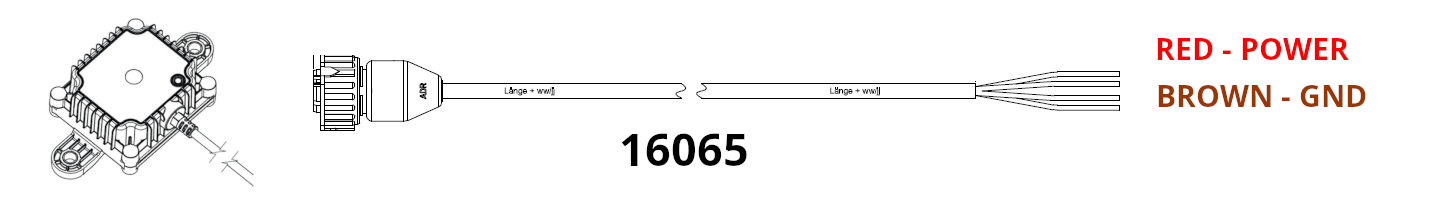
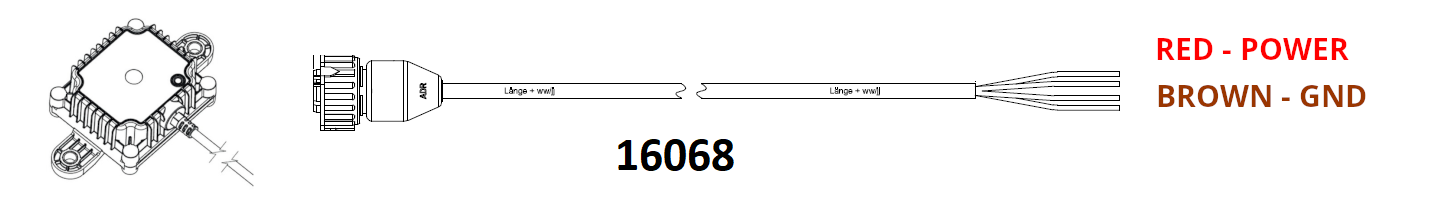
Updated strap weight and truck cable PN

Changed region(s): [[0.429, 0.5938, 0.5209, 0.7812]]

diff --git a/docs/receiver/receiver_enclosure.md b/docs/receiver/receiver_enclosure.md
@@ -67,7 +67,7 @@ The general wiring of the receiver follows the picture:
 ### Standalone Receiver
 
 For Truck installations where the transceiver will not be connected to a Telematics unit, you only need to provide power (from ignition, KL 15) to the receiver. Since the transceiver will be installed externally on the vehicle, a cable must be routed together with the OE-cables of the vehicle, from the receiver to the internal fuse-box in the cabin.
-This routing needs to follow the OE routing and use any available fuse-box entry at the vehicle front. See the Truck OE manual for reference. The cable **16065** must be used for that end:
+This routing needs to follow the OE routing and use any available fuse-box entry at the vehicle front. See the Truck OE manual for reference. The cable **16068** must be used for that end:
 
 ![Wiring](images/no_EBS.png){ width="700px"}
 
@@ -77,15 +77,19 @@ During the installation, the power (ignition line) used to supply the receiver *
 ### Including Telematics
 
 For Truck installations where a Telematics unit is included, the transceiver and the telematics will need to be connected together.
-•	The Transceiver will be placed externally on the Truck.
-•	The Telematics Box will be placed internally in the vehicle cabin.
+
+- The Transceiver will be placed externally on the Truck.
+- The Telematics Box will be placed internally in the vehicle cabin.
+
 Since the transceiver will be installed externally on the vehicle, a cable must be routed together with the OE-cables of the vehicle, from the receiver to the internal fuse-box in the cabin.
-This routing needs to follow the OE routing and use any available fuse-box entry at the vehicle front. See the Truck OE manual for reference. The cable **16065** must be used for that end.
+This routing needs to follow the OE routing and use any available fuse-box entry at the vehicle front. See the Truck OE manual for reference. The cable **16068** must be used for that end.
 Inside the cabin, find a suitable position for the telematics inside the dashboard, following the rules below:
-•	Cannot be surrounded by metal or cables;
-•	Needs line of sight with the sky – only plastic/glass between the unit and the sky;
-•	Needs to be fixed, avoiding vibration.
-•	Avoid heated parts.
+
+- Cannot be surrounded by metal or cables;
+- Needs line of sight with the sky – only plastic/glass between the unit and the sky;
+- Needs to be fixed, avoiding vibration.
+- Avoid heated parts.
+
 Generally, next to the fuse box there is available space to place the telematics device.
 
 ![Wiring](images/aplicom.png){ width="700px"}

diff --git a/docs/sensors/internal_strap.md b/docs/sensors/internal_strap.md
@@ -15,7 +15,8 @@ level: confidential
 
 ## Mechanical Features
 
-- Weight: 71.5g.
+- Sensor Weight: 36.4g.
+- Strap Weight: 78.9g.
 - Dimensions: 84x32x23mm (LxWxH).
 - Water proof: IP67, IP69K.
 - Material: Plastic.
